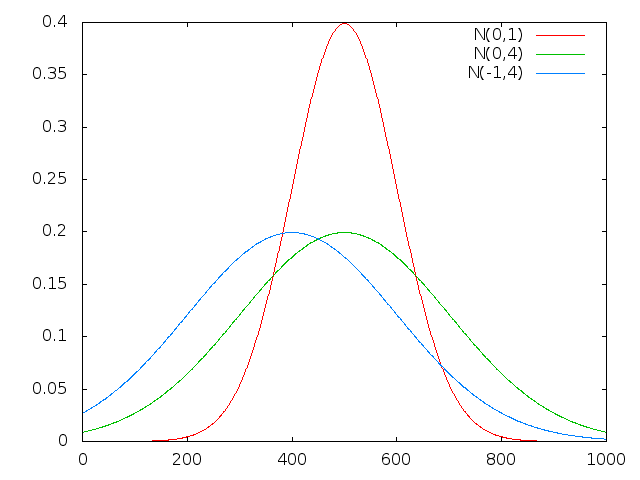
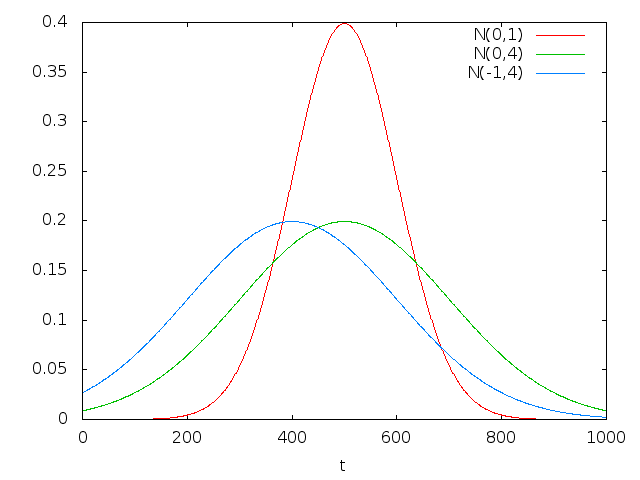
Replotting Gaussians.

diff --git a/gaussians/gaussian_samples.cpp b/gaussians/gaussian_samples.cpp
@@ -1,5 +1,6 @@
 #include <iostream>
 #include "gaussian.h"
+#include "truncated_gaussian.h"
 #include <cmath>
 #include <limits>
 #include <fstream> 
@@ -11,52 +12,83 @@ using namespace std;
 /// Test environment for Gaussians:
 /// Compile it with:
 /// g++ -Wall -o gaussian gaussian.cpp gaussian_samples.cpp -lboost_iostreams -lboost_system -lboost_filesystem
-
-int main(void){
- Gnuplot gp;
+/*
+int plotGaussianDensity(){
+  Gnuplot gp;
   Gaussian G1(0,1);
   Gaussian G2(0,4);
   Gaussian G3(-1,4);
   //cout << G1.normpdf(0) << endl;
   gp << "set terminal png\n";
-  /*
+
 	std::vector<double> y_pts;
 	std::vector<double> x_pts;
 	std::vector<double> z_pts;
 	for(int i=-500;i<=500;i++) {
-		double y = G1.normpdf(double(i)/100.0);
+		double y = G1.at(double(i)/100, 0,1);
 		y_pts.push_back(y);
-		double x = G2.normpdf(double(i)/100.0);
+		double x = G2.at(double(i)/100,0,2);
 		x_pts.push_back(x);
-		double z = G3.normpdf(double(i)/100.0);
+		double z = G3.at(double(i)/100, -1, 2);
 		z_pts.push_back(z);
 	}
 
 	std::cout << "Creating Gaussians.png" << std::endl;
 	gp << "set output 'Gaussians.png'\n";
+	//gp << "set xrange [-5:5]\n";
+	gp << "set xlabel 't'\n";
 	gp << "plot '-' with lines title 'N(0,1)', '-' with lines title 'N(0,4)', '-' with lines title 'N(-1,4)'\n";
 	gp.send1d(y_pts);
 	gp.send1d(x_pts);
 	gp.send1d(z_pts);
-  */
+  return 0; 
+}*/
+int main(void){
+ Gnuplot gp;
+truncatedGaussianCorrectionFunctions tg;
 	std::vector<double> mu_corr1;
 	std::vector<double> mu_corr2;
 	std::vector<double> mu_corr3;
-	for(int i=-500;i<=500;i++) {
-	  double corr1 = G1.v0_t_epsilon(double(i)/100.0,0.5);
+	std::vector<double> corr_func;
+	for(int i=-500;i<10;i++) {
+	  double corr1 = tg.vWithinMargin(double(i)/100, 0.1);
 	  mu_corr1.push_back(corr1);
-	  double corr2 = G1.v0_t_epsilon(double(i)/1000,1.0);
+	}
+	for(int i=-500;i<200;i++) {
+	  double corr2 = tg.vWithinMargin(double(i)/100, 2.0);
 	  mu_corr2.push_back(corr2);
-	  double corr3 = G1.v0_t_epsilon(double(i)/100.0,4.0);
+	} 
+	for(int i=-500;i<400;i++) {
+	  double corr3 = tg.vWithinMargin(double(i)/100, 4.0);
 	  mu_corr3.push_back(corr3);
+	} 
+	
+	
+	for(int i=10;i<=500;i++) {
+	  double corr1 = tg.vExceedsMargin(double(i)/100, 0.1);
+	  mu_corr1.push_back(corr1);
+	}
+	for(int i=200;i<=500;i++) {
+	  double corr2 = tg.vExceedsMargin(double(i)/100, 2.0);
+	  mu_corr2.push_back(corr2);
+	} 
+	for(int i=400;i<=500;i++) {
+	  double corr3 = tg.vExceedsMargin(double(i)/100, 4.0);
+	  mu_corr3.push_back(corr3);
+	} 
+	for(int i=-500;i<=500;i++) {
+	  corr_func.push_back(tg.at(double(i)/100));
 	}
 	
-	std::cout << "Creating TruncatedGaussians.png" << std::endl;
-	gp << "set output 'TruncatedGaussians.png'\n";
-	gp << "plot '-' with points title 'epsilon = 0.50', '-' with points title 'epsilon = 1.00', '-' with points title 'epsilon = 4.00'\n";
+	std::cout << "Creating SigmaCorrection.png" << std::endl;
+	gp << "set output 'SigmaCorrection.png'\n";
+	gp << "set grid\n";
+	gp << "plot '-' with points title 'epsilon = 0.50', '-' with points title 'epsilon = 1.00', '-' with points title 'epsilon = 4.00', '-' with points title 'truncated error func'\n";
 	//gp << "set grid \n";
 	//gp << "set xlabel 't', set ylabel 'v(t,a,b)'\n";
 	gp.send1d(mu_corr1);
 	gp.send1d(mu_corr2);
 	gp.send1d(mu_corr3);
+	gp.send1d(corr_func);
+
 }
